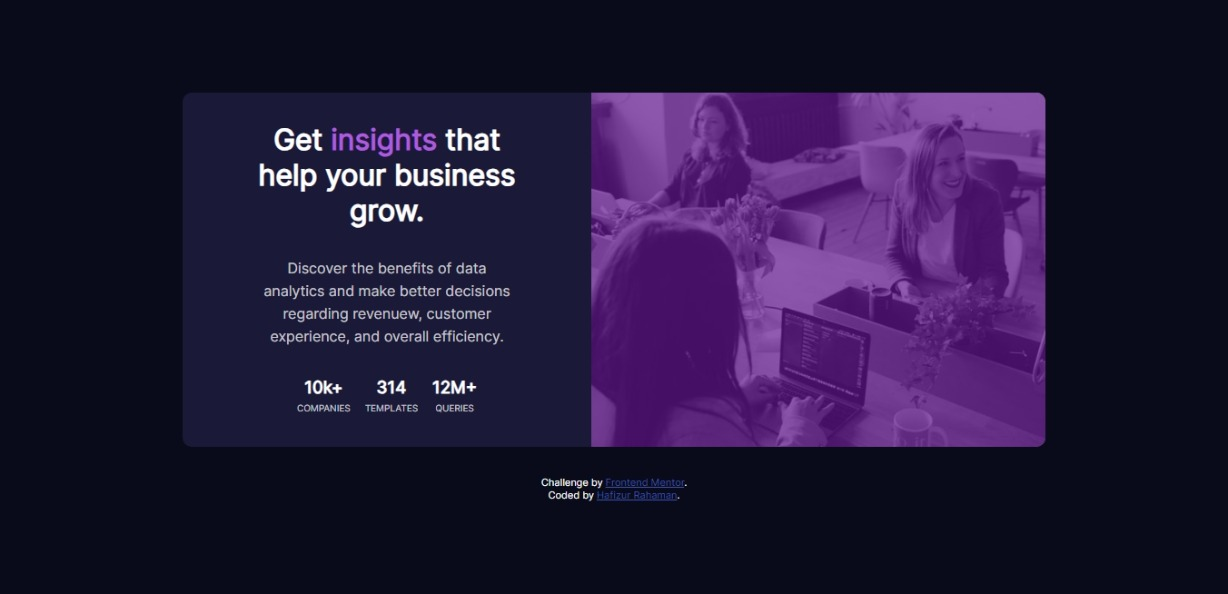
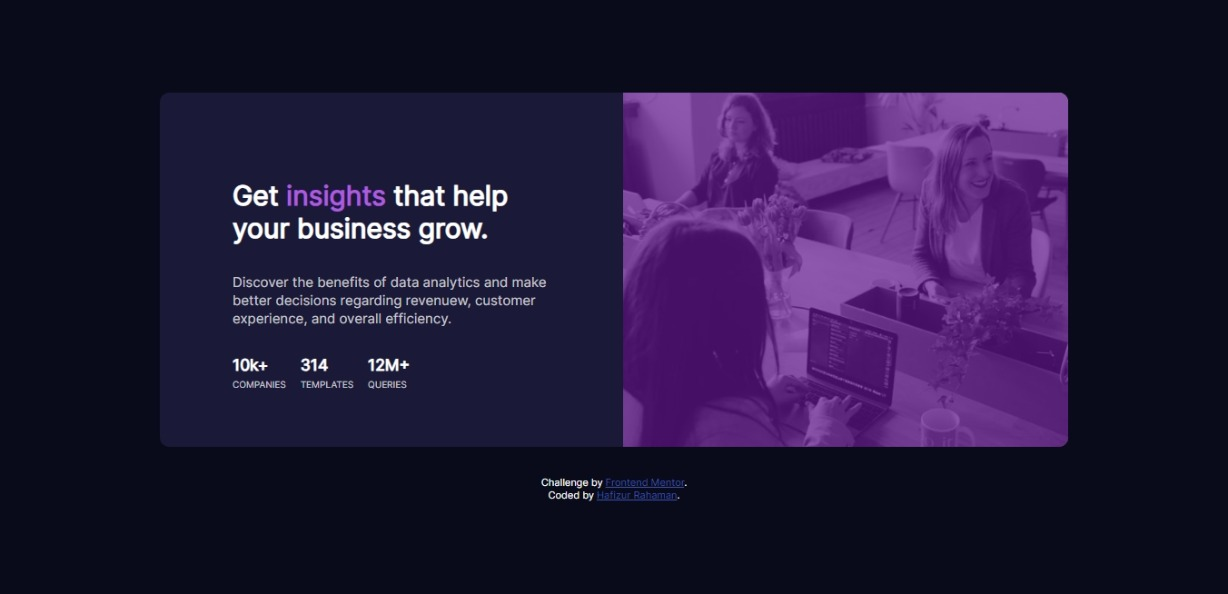
fixed some code

diff --git a/stats-preview-card-component-main/style.css b/stats-preview-card-component-main/style.css
@@ -29,13 +29,14 @@
 
 body {
     font-family: var(--font-family-Inter);
+    font-size: 10px;
 }
 
 /* Card Styles */
 
 .main-container {
     width: 100vw;
-    height: 100vh;
+    height: 150vh;
     background-color: var(--very-dark-blue-main-background);
     color: var(--white-mainHeading-stats);
     display: flex;
@@ -46,7 +47,7 @@ body {
 }
 
 .stats-container {
-    width: 324px;
+    width: 300px;
     text-align: center;
     background-color: var(--dark-desaturated-blue-card-background);
     border-radius: 0 0 10px 10px;
@@ -54,7 +55,7 @@ body {
 }
 
 .stats-header {
-    width: 324px;
+    width: 100%;
     height: 238px;
     position: relative;
     /* border-radius: 10px 10px 0 0; */
@@ -90,7 +91,7 @@ body {
 
 .stats-body .paragraph {
     width: 290px;
-    line-height: 25px;
+    line-height: 20px;
     /* margin-bottom: 30px; */
     margin: 30px auto;
     color: var(--slightly-transparent-white-main-paragraph);
@@ -112,19 +113,31 @@ body {
     margin-top: 5px;
 }
 
-@media (min-width: 987px) {
+@media (min-width: 768px) {
+    body {
+        font-size: var(--font-size);
+    }
+
+    .main-container {
+        height: 150vh;
+    }
+}
+
+
+@media (min-width: 1024px) {
+
+    .main-container {
+        height: 100vh;
+    }
 
     .stats-container {
-        width: auto;
+        width: 1000px;
         gap: 5rem;
         padding-left: 5rem;
         display: flex;
-        justify-content: center;
+        justify-content: space-between;
+        align-items: center;
         flex-direction: row-reverse;
-    }
-
-    .stats-body .status {
-        flex-direction: row;
     }
 
     .stats-header {
@@ -136,9 +149,31 @@ body {
     .stats-header .overlay {
         border-radius: 0 10px 10px 0;
     }
-
+    
     .img {
         border-radius: 0 10px 10px 0;
+    }
+    
+    .stats-body .status {
+        flex-direction: row;
+    }
+
+    .stats-body {
+        text-align: left
+    }
+
+    .stats-body .heading {
+        width: 350px;
+    }
+
+    .stats-body .paragraph {
+        width: 350px;
+    }
+
+    .stats-body .status {
+        display: flex;
+        justify-content: flex-start;
+        margin: 0;
     }
 
 }
